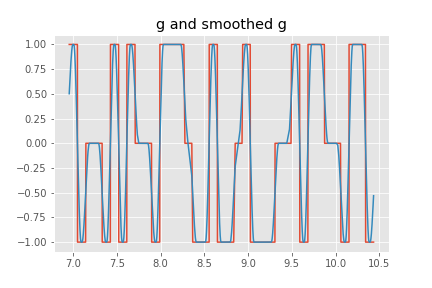
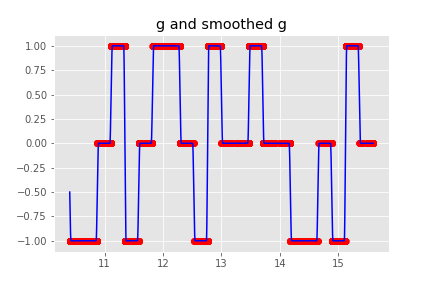
generate new data

diff --git a/depth_sep/generate_data.py b/depth_sep/generate_data.py
@@ -28,9 +28,9 @@ def mollify(idx_list, g, mol):
         y_list += [y]
     return np.array(y_list)
 
-def main(N_const, NSUPP=1000, mol_const=10, c_const=80, seed=0):
+def main(N_const=0.1, NSUPP=10000, mol_const=100, c_const=80, seed=0):
     np.random.seed(seed)
-    d = 10
+    d = 4
     R = lambda d: gamma(d/2+1)**(1/d)/np.sqrt(np.pi)
     S = lambda d: 2*gamma(0.5)**(d+1)/gamma((d+1)/2)
     # Radial density function
@@ -78,10 +78,6 @@ def main(N_const, NSUPP=1000, mol_const=10, c_const=80, seed=0):
 
     # Construct smooth and non-smooth target functions
     jr = lambda x: jv(d/2,2*np.pi*R(d)*x)**2
-    fig = plt.figure()
-    plt.plot(R_grid[::100],jr(R_grid[::100])*R_grid[::100]*R(d)*np.pi)
-    plt.show()
-    plt.close(fig)
 
     idx = 0
     g = []
@@ -124,8 +120,8 @@ def main(N_const, NSUPP=1000, mol_const=10, c_const=80, seed=0):
     # Plot yg and y_mol
     sort_idx = np.argsort(R_sample)
     fig = plt.figure()
-    plt.plot(R_sample[sort_idx[::10]],yg[sort_idx[::10]])
-    plt.plot(R_sample[sort_idx[::10]],y_mol[sort_idx[::10]])
+    plt.scatter(R_sample[sort_idx[::10]],yg[sort_idx[::10]],c='r')
+    plt.plot(R_sample[sort_idx[::10]],y_mol[sort_idx[::10]],c='b')
     plt.title("g and smoothed g")
     plt.savefig('fig/gplot.png')
 
@@ -148,3 +144,6 @@ def main(N_const, NSUPP=1000, mol_const=10, c_const=80, seed=0):
         np.save(f, x_sample[int(0.8*len(x_sample)):])
     with open('data/eldan-smooth-test-label.npy', 'bw') as f:
         np.save(f, y_mol[int(0.8*len(x_sample)):])
+
+if __name__ == '__main__':
+    main(N_const=0.01,NSUPP=100000,mol_const=10000)
